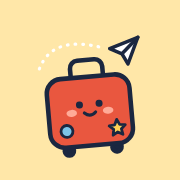
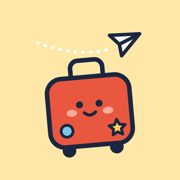
載入動畫（小行李箱往前跳、紙飛機）；所有虛線加紙飛機的圖案對齊機身中線

diff --git a/src/styles.css b/src/styles.css
@@ -1249,3 +1249,44 @@ html[lang="en"] .ovstops .k{width:auto;min-width:20px;padding:0 6px;border-radiu
 .qpreminds{list-style:none;margin:0;padding:0;display:grid;gap:8px}
 .qpremind{display:flex;gap:10px;align-items:flex-start;padding:10px 12px;border:1.5px solid var(--amber);border-radius:12px;background:var(--amber-soft);color:var(--ink);font-size:.9rem;font-weight:700;line-height:1.5}
 .qpremind .micon{flex:none;margin-top:2px}
+
+/* ---- 載入動畫（小行李箱往前跳、紙飛機飄、三顆小圓點） ---- */
+.loadingpage{min-height:70dvh;display:grid;align-content:center;justify-items:center;gap:14px}
+.loadingpage .notice{text-align:center}
+.loadingpage .actions{justify-content:center}
+.triploader{display:grid;justify-items:center;gap:2px}
+.triploader .ld{overflow:visible}
+/* logo 的航跡是白色（畫在黃底上）；這裡直接畫在頁面底色上，改用淡淡的墨色才看得到 */
+.triploader .l-trail,.ld-ground{stroke:var(--muted);opacity:.5}
+.ld-ground{fill:none;stroke-width:9;stroke-linecap:round;stroke-dasharray:2 22}
+.ld-shadow{fill:var(--ink);opacity:.13}
+.ld-hop,.ld-shadow,.ld-eye,.ld-plane{transform-box:fill-box}
+.ld-hop{transform-origin:50% 100%}
+.ld-shadow{transform-origin:50% 50%}
+.ld-eye{transform-origin:50% 50%}
+.ld-plane{transform-origin:20% 60%}
+.ld-label{margin:0;display:flex;align-items:center;gap:8px;font-family:var(--f-display);font-weight:800;font-size:1.15rem;color:var(--ink)}
+.ld-dots{display:inline-flex;gap:5px}
+.ld-dots span{display:block;flex:none;width:10px;height:10px;border-radius:50%;border:2px solid var(--ink);box-sizing:border-box;background:var(--logo-red)}
+.ld-dots span:nth-child(2){background:#ffd257}
+.ld-dots span:nth-child(3){background:#7cc4e8}
+@media (prefers-reduced-motion:no-preference){
+  .ld-hop{animation:ld-hop .72s cubic-bezier(.3,0,.4,1) infinite}
+  .ld-shadow{animation:ld-shadow .72s cubic-bezier(.3,0,.4,1) infinite}
+  .ld-ground{animation:ld-run .72s linear infinite}
+  .ld-trail{animation:ld-trail .9s linear infinite}
+  .ld-plane{animation:ld-plane 2.4s ease-in-out infinite}
+  .ld-eye{animation:ld-blink 3.2s infinite}
+  .ld-dots span{animation:ld-dot .9s ease-in-out infinite}
+  .ld-dots span:nth-child(2){animation-delay:.15s}
+  .ld-dots span:nth-child(3){animation-delay:.3s}
+}
+/* 落地時壓扁一點、起跳時拉長一點，才有軟軟的感覺 */
+@keyframes ld-hop{0%,100%{transform:translateY(0) scale(1.05,.94)}18%{transform:translateY(-6px) scale(.97,1.04)}50%{transform:translateY(-34px) scale(1,1)}82%{transform:translateY(-6px) scale(.98,1.03)}}
+@keyframes ld-shadow{0%,100%{transform:scale(1);opacity:.15}50%{transform:scale(.72);opacity:.07}}
+@keyframes ld-run{to{stroke-dashoffset:48}}
+@keyframes ld-trail{from{stroke-dashoffset:22}to{stroke-dashoffset:0}}
+/* 飛機沿著自己的中線（右上 45 度）往前衝一點再退回來，只微微擺頭 */
+@keyframes ld-plane{0%,100%{transform:translate(0,0) rotate(0)}45%{transform:translate(10px,-10px) rotate(-2deg)}75%{transform:translate(3px,-3px) rotate(2deg)}}
+@keyframes ld-blink{0%,92%,100%{transform:scaleY(1)}95%,97%{transform:scaleY(.12)}}
+@keyframes ld-dot{0%,60%,100%{transform:translateY(0)}30%{transform:translateY(-7px)}}

diff --git a/src/components/Loader.tsx b/src/components/Loader.tsx
@@ -1,0 +1,42 @@
+/**
+ * 載入動畫：logo 裡的小行李箱一跳一跳往前走（腳下的虛線往後跑、影子跟著縮放、會眨眼），
+ * 紙飛機在上面飄，後面的虛線航跡一點一點往前送；下面三顆 logo 顏色的小圓點輪流跳。
+ * 圖形和 LogoMark 是同一份座標、同一組顏色（跟著深淺色走）。系統設定「減少動態效果」時不動。
+ */
+export function TripLoader({ label, size = 190 }: { label: string; size?: number }) {
+  return (
+    <div className="triploader" role="status" aria-live="polite">
+      <svg className="logo ld" viewBox="46 10 420 488" width={size} height={size * 1.162} aria-hidden="true" focusable="false">
+        {/* 飛機和航跡比 logo 裡高一點，才不會被跳起來的行李箱提把擋住 */}
+        <g transform="translate(20 -70)">
+        {/* 航跡：尾端對準飛機的中線（機頭 392,106 到機尾凹口 347,153 那條線，往後延伸），所以看起來是從機尾正後方拉出來的 */}
+        <path className="l-trail ld-trail" d="M150 150 Q275 225 330 170" />
+        <g className="ld-plane">
+          <g className="l-line l-plane">
+            <path d="M312 138 L392 106 L364 182 L347 153 Z" />
+            <path d="M347 153 L392 106" />
+          </g>
+        </g>
+        </g>
+        <path className="ld-ground" d="M76 462 H436" />
+        <ellipse className="ld-shadow" cx="256" cy="462" rx="104" ry="11" />
+        <g className="ld-hop">
+          <g className="l-line" transform="rotate(-5 256 320)">
+            <circle className="l-ink" cx="188" cy="424" r="13" />
+            <circle className="l-ink" cx="324" cy="424" r="13" />
+            <path className="l-none" d="M210 218 v-26 a22 22 0 0 1 22 -22 h48 a22 22 0 0 1 22 22 v26" />
+            <rect className="l-case" x="138" y="218" width="236" height="196" rx="42" />
+            <circle className="l-dot" cx="186" cy="368" r="17" />
+            <path className="l-star" d="M330 346 l7 15 16 2 -12 11 3 16 -14 -8 -14 8 3 -16 -12 -11 16 -2 z" />
+            <ellipse className="l-cheek" cx="204" cy="318" rx="15" ry="10" />
+            <ellipse className="l-cheek" cx="308" cy="318" rx="15" ry="10" />
+            <circle className="l-eye ld-eye" cx="228" cy="296" r="10" />
+            <circle className="l-eye ld-eye" cx="284" cy="296" r="10" />
+            <path className="l-none l-smile" d="M240 320 q16 15 32 0" />
+          </g>
+        </g>
+      </svg>
+      <p className="ld-label">{label.replace(/[….]+$/, "")}<span className="ld-dots" aria-hidden="true"><span /><span /><span /></span></p>
+    </div>
+  );
+}

diff --git a/src/components/Logo.tsx b/src/components/Logo.tsx
@@ -6,8 +6,9 @@ export function LogoMark({ size = 44 }: { size?: number }) {
   return (
     <svg className="logo" viewBox="0 0 512 512" width={size} height={size} aria-hidden="true" focusable="false">
       <rect className="l-tile" width="512" height="512" rx="116" />
-      <path className="l-trail" d="M112 196 Q150 96 300 138" />
-      <g className="l-line l-plane">
+      {/* 虛線的尾端對準紙飛機的中線（機頭到機尾凹口那條線）：跟 public/icon.svg 同一組座標 */}
+      <path className="l-trail" d="M106 122 Q250 169 318 134" />
+      <g className="l-line l-plane" transform="translate(-9 -31) rotate(19 338 160)">
         <path d="M312 138 L392 106 L364 182 L347 153 Z" />
         <path d="M347 153 L392 106" />
       </g>
@@ -31,8 +32,9 @@ export function LogoMark({ size = 44 }: { size?: number }) {
 /** The paper plane on its own, for the start of the route line. */
 export function PaperPlane({ size = 18 }: { size?: number }) {
   return (
-    <svg className="logo plane" viewBox="300 94 104 100" width={size} height={size} aria-hidden="true" focusable="false">
-      <g className="l-line l-plane">
+    <svg className="logo plane" viewBox="316 98 104 92" width={size} height={size} aria-hidden="true" focusable="false">
+      {/* 轉成機身中線水平、機頭朝右：後面接的是一排橫的虛線（路線），方向要一致 */}
+      <g className="l-line l-plane" transform="rotate(46 352 144)">
         <path d="M312 138 L392 106 L364 182 L347 153 Z" />
         <path d="M347 153 L392 106" />
       </g>

diff --git a/src/App.tsx b/src/App.tsx
@@ -23,6 +23,7 @@ import { MenuIcon, PaperPlane, PersonIcon } from "./components/Logo";
 import { TripIcon, tripIconId } from "./tripIcons";
 import { AccountPage } from "./components/AccountView";
 import { setBackdropContext } from "./components/Backdrop";
+import { TripLoader } from "./components/Loader";
 import { describe, fetchCurrent, placeByKey, placesFor } from "./weather";
 import type { CurrentSky } from "./weather";
 import { PeopleBanner, PeopleView } from "./components/PeopleView";
@@ -69,9 +70,10 @@ function Loading() {
   const [slow, setSlow] = useState(false);
   useEffect(() => { const timer = setTimeout(() => setSlow(true), 7000); return () => clearTimeout(timer); }, []);
   return (
-    <Notice title={t("載入中…")}>
-      {slow && <><p>{t("網路有點慢，還在等回應。")}</p><div className="actions"><button type="button" className="btn" onClick={() => location.reload()}>{t("重新整理")}</button></div></>}
-    </Notice>
+    <div className="wrap pick loadingpage">
+      <TripLoader label={t("載入中…")} />
+      {slow && <div className="notice"><p>{t("網路有點慢，還在等回應。")}</p><div className="actions"><button type="button" className="btn" onClick={() => location.reload()}>{t("重新整理")}</button></div></div>}
+    </div>
   );
 }
 

diff --git a/src/components/Backdrop.tsx b/src/components/Backdrop.tsx
@@ -119,7 +119,8 @@ const Stars = () => <>{Array.from({ length: 34 }, (_, i) => (
 /** The paper plane from the logo, with the dotted line it leaves behind. */
 const Plane = () => (
   <g transform="translate(0 300)">
-    <path className="bd-trail" d="M-10 150 Q110 40 250 92" />
+    {/* 虛線尾端對準飛機的中線（機頭 290,78 到機尾凹口 267,101 那條 45 度線），從機尾正後方接上來 */}
+    <path className="bd-trail" d="M-10 150 Q189 179 259 109" />
     <g className="bd-plane" transform="translate(250 78)">
       <path className="bd-o" fill="#fff" d="M0 16 L40 0 L26 38 L17 23 Z" />
       <path className="bd-o" fill="none" d="M17 23 L40 0" />
